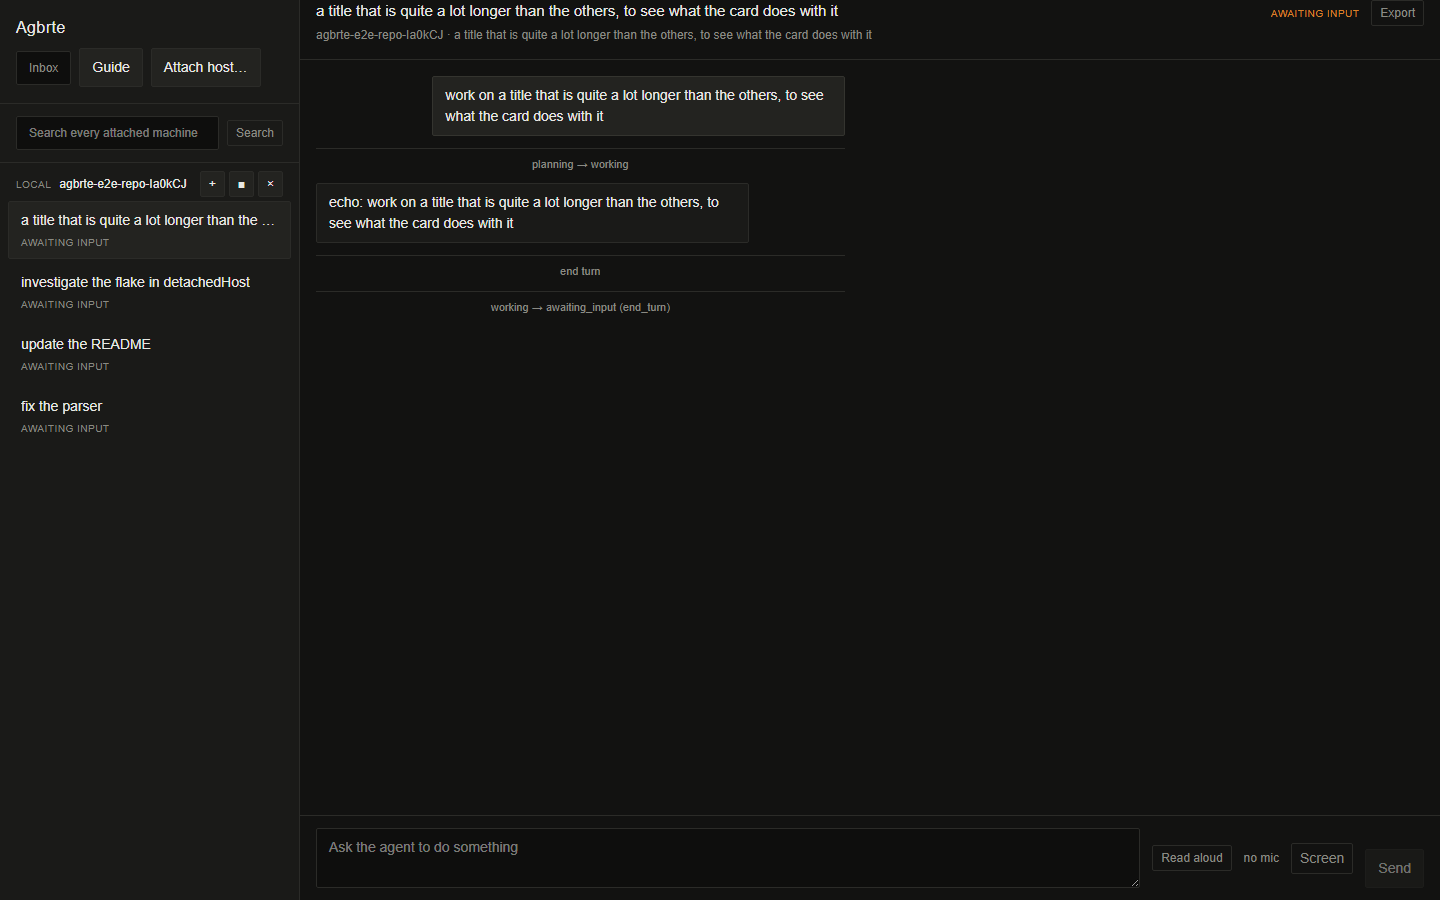
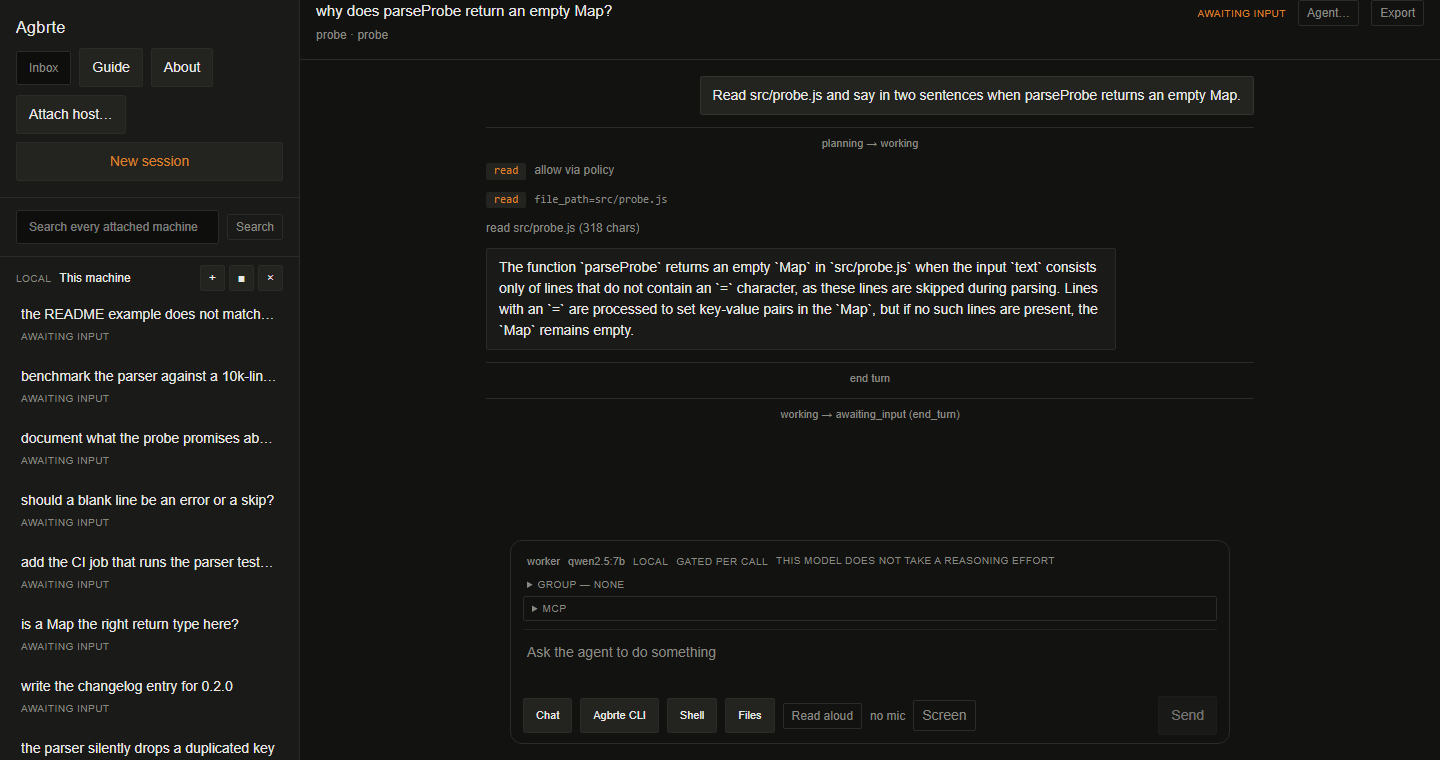
Photograph the product rather than the fixture
The README now leads with these three pictures, and what they showed was a test
run: four `echo` sessions in an empty repository, a workspace called
`agbrte-e2e-repo-5Y5Z4U` printed twice across the top of the session view, three
quarters of every frame black, and a card whose title read *"a title that is
quite a lot longer than the others, to see what the card does with it"*.

None of that was wrong for what the spec was written for. The long title is
there to test what a card does with one, `echo` keeps the suite offline, and an
empty repo is the cheapest fixture there is. It stopped being right when the
output became the first thing anyone sees of the product — a reader who then
downloads the app finds something better than they were shown, which is a small
lie told for no gain.

So the spec now photographs a plausible workspace: a repository with a README and
a file in it, sixteen titles that are work rather than fixtures, and **a real
model when one is running** — `qwen2.5:7b` through Ollama, which is what the
README tells people to install. The session shot is worth the change on its own:
it now shows a permission decision, a `read` of the file the question was about,
and an answer that is correct about the code, instead of `echo:` repeating the
prompt back.

`--yes` is passed because the repository is a throwaway temp directory and a
picture full of denied reads is the one thing these must not be. The fallback to
[…]

diff --git a/tests/e2e/shots.spec.ts b/tests/e2e/shots.spec.ts
@@ -11,67 +11,234 @@
  * to ignore its output.
  *
  *   npx playwright test shots --grep @shots
+ *
+ * ## These end up in the README, which changes what they owe a reader
+ *
+ * The first set was four `echo` sessions in an empty repo, and it showed: three
+ * quarters of the frame was black, every card said the same thing, and one
+ * title was literally *"a title that is quite a lot longer than the others, to
+ * see what the card does with it"*. As a design aid that was fine — the long
+ * title is there to test the card, and `echo` is there to keep the suite
+ * offline. As the first picture of the product anybody sees it was a picture of
+ * placeholder text, and a reader who then downloaded the app would find
+ * something better than they had been shown.
+ *
+ * So: a repository with files in it, titles that are work rather than fixtures,
+ * enough sessions that the grid is a grid, and **a real model when one is
+ * running**. `qwen2.5:7b` through Ollama is what `README.md` tells people to
+ * install, so it is what the pictures are taken with.
+ *
+ * It still falls back to `echo` when no model is there, and the fallback is not
+ * a lesser test — it is the same UI with cheaper turns. What it is not is
+ * something to publish, so the two are told apart in the console rather than
+ * silently producing different pictures under one name.
  */
 
 import { test } from '@playwright/test';
 import { execFileSync } from 'node:child_process';
-import { mkdir } from 'node:fs/promises';
-import { resolve } from 'node:path';
-import { serveWebFixture } from './harness.js';
+import { mkdir, mkdtemp, writeFile } from 'node:fs/promises';
+import { tmpdir } from 'node:os';
+import { join, resolve } from 'node:path';
+import { modelAvailable, serveWebFixture, warmModel } from './harness.js';
 
 const OUT = resolve('.shots');
+const MODEL = 'qwen2.5:7b';
 
-/** Sessions with the variety a dashboard actually has to render. */
-const TITLES = [
-  'fix the parser',
-  'update the README',
-  'investigate the flake in detachedHost',
-  'a title that is quite a lot longer than the others, to see what the card does with it',
+/**
+ * Sessions with the variety a dashboard actually has to render.
+ *
+ * The long title stays, because a card that cannot take one is a bug worth
+ * seeing, but it is now a plausible sentence rather than an instruction to the
+ * reader. The rest are the shape of a real queue: a bug, a doc, an
+ * investigation, a rename, a question.
+ */
+const WORK = [
+  {
+    title: 'why does parseProbe return an empty Map?',
+    prompt: 'Read src/probe.js and say in two sentences when parseProbe returns an empty Map.',
+  },
+  {
+    title: 'add a test for a line with no equals sign',
+    prompt: 'Read src/probe.js. In two sentences, what should a test for a line with no "=" assert?',
+  },
+  {
+    title: 'draft the README section on parsing probe output',
+    prompt: 'Read README.md and draft two sentences for a section about parsing probe output.',
+  },
+  {
+    title: 'rename parseProbe to parseProbeLines and update the callers',
+    prompt: 'Read src/probe.js and list, in two sentences, what a rename of parseProbe would touch.',
+  },
+  {
+    title: 'investigate the flake in detachedHost',
+    prompt: 'Two hosts in one test run shared a socket. Name the likeliest cause in two sentences.',
+  },
+  {
+    title: 'work out whether the host record can be trusted after a reboot',
+    prompt: 'In two sentences: why is a file naming a process weaker evidence than a socket answering?',
+  },
+  {
+    title: 'decide what a value containing an equals sign should do',
+    prompt: 'Read src/probe.js. In two sentences: what happens to a line like a=b=c, and is that right?',
+  },
+  {
+    title: 'trim the trailing carriage return a Windows shell leaves',
+    prompt: 'In two sentences: why does a line read from a Windows shell often end in a stray \\r?',
+  },
+  {
+    title: 'the parser silently drops a duplicated key',
+    prompt: 'Read src/probe.js. In two sentences: what happens when the same key appears twice?',
+  },
+  {
+    title: 'write the changelog entry for 0.2.0',
+    prompt: 'In two sentences, draft a changelog entry for a parser that now skips malformed lines.',
+  },
+  {
+    title: 'is a Map the right return type here?',
+    prompt: 'Read src/probe.js. In two sentences, argue for or against returning a Map.',
+  },
+  {
+    title: 'add the CI job that runs the parser tests on Windows',
+    prompt: 'In two sentences: what does a Windows CI job need that a Linux one does not?',
+  },
+  {
+    title: 'should a blank line be an error or a skip?',
+    prompt: 'Read src/probe.js. In two sentences: is skipping a blank line the right call?',
+  },
+  {
+    title: 'document what the probe promises about ordering',
+    prompt: 'In two sentences: does a Map preserve insertion order, and does that matter here?',
+  },
+  {
+    title: 'benchmark the parser against a 10k-line probe',
+    prompt: 'In two sentences: what would dominate the cost of parsing ten thousand lines?',
+  },
+  {
+    title: 'the README example does not match the code',
+    prompt: 'Read README.md and src/probe.js. In two sentences, say whether they agree.',
+  },
 ];
+
+/** A repository with something in it, so a turn has something to be about. */
+async function fillRepo(repo: string): Promise<void> {
+  await writeFile(
+    join(repo, 'README.md'),
+    '# probe\n\nParses `key=value` lines out of what a remote shell prints back.\n',
+    'utf8',
+  );
+  await mkdir(join(repo, 'src'), { recursive: true });
+  await writeFile(
+    join(repo, 'src', 'probe.js'),
+    [
+      '/** Parse `key=value` lines. A line without `=` is skipped rather than thrown on. */',
+      'export function parseProbe(text) {',
+      '  const out = new Map();',
+      '  for (const line of text.split("\\n")) {',
+      '    const at = line.indexOf("=");',
+      '    if (at > 0) out.set(line.slice(0, at).trim(), line.slice(at + 1).trim());',
+      '  }',
+      '  return out;',
+      '}',
+      '',
+    ].join('\n'),
+    'utf8',
+  );
+}
 
 test.describe('@shots', () => {
   test('captures the app at the sizes people use it', async ({ page }) => {
-    test.setTimeout(180_000);
+    test.setTimeout(900_000);
     await mkdir(OUT, { recursive: true });
-    const web = await serveWebFixture();
+
+    const live = await modelAvailable(MODEL);
+    // Its own machine directory and its own endpoint file, so this neither reads
+    // nor writes the developer's `~/.agbrte` (§8) — the alternative is a run
+    // that quietly depends on how the person running it configured their models.
+    const home = await mkdtemp(join(tmpdir(), 'agbrte-shots-home-'));
+    if (live) {
+      await writeFile(
+        join(home, 'endpoints.json'),
+        JSON.stringify({
+          endpoints: [{ id: 'local', baseUrl: 'http://127.0.0.1:11434/v1' }],
+          default: 'local',
+        }),
+        'utf8',
+      );
+      await warmModel(MODEL);
+    }
+    process.stdout.write(
+      live
+        ? `\n  shots: ${MODEL} through Ollama — these are publishable\n\n`
+        : `\n  shots: no ${MODEL}, falling back to the echo runtime — do NOT publish these\n\n`,
+    );
+
+    // A folder with a name, because the session header prints it and
+    // `agbrte-e2e-repo-5Y5Z4U` in a published screenshot says "test fixture".
+    const web = await serveWebFixture({
+      home,
+      repo: join(await mkdtemp(join(tmpdir(), 'agbrte-shots-')), 'probe'),
+    });
 
     try {
-      for (const title of TITLES) {
+      await fillRepo(web.repo);
+
+      for (const { title, prompt } of WORK) {
         execFileSync(
           process.execPath,
           [
             resolve('dist/cli/agbrte.js'),
             'run',
             web.repo,
-            '--runtime',
-            'echo',
             '--title',
             title,
-            `work on ${title}`,
+            // `--yes` because the repo is a throwaway temp directory and a denied
+            // read is the one thing these pictures must not be full of. It is
+            // also what makes a transcript worth photographing: the model
+            // actually opens the file it was asked about.
+            '--yes',
+            ...(live ? ['--endpoint', 'local', '--model', MODEL] : ['--runtime', 'echo']),
+            prompt,
           ],
-          { stdio: 'ignore' },
+          { stdio: 'ignore', env: { ...process.env, AGBRTE_HOME: home } },
         );
       }
 
-      // Desktop first, which is where the app is mostly used.
-      await page.setViewportSize({ width: 1440, height: 900 });
+      /*
+       * Two desktop heights, one per view, and that is framing rather than a lie
+       * about the layout.
+       *
+       * The dashboard is a grid that grows downwards: on a tall window sixteen
+       * sessions still leave half the frame black. That is genuinely what the app
+       * looks like, and it is also a picture that is mostly nothing once it is
+       * scaled to the width of a README column. A session is the opposite shape —
+       * the composer is pinned to the bottom, so a short window squeezes the
+       * transcript that is the whole point of the picture.
+       *
+       * So each gets a window height somebody actually has, chosen for what is in
+       * it. The width never changes, because that is what decides the layout.
+       */
+      await page.setViewportSize({ width: 1440, height: 560 });
       await page.goto(web.url);
       await page.waitForSelector('[data-testid=dashboard]', { timeout: 30_000 });
-      await page.waitForTimeout(600);
+      await page.waitForTimeout(800);
       await page.screenshot({ path: `${OUT}/01-dashboard.png` });
 
-      // A session opened: the transcript, the roster, the composer.
-      const card = page.locator('[data-testid=session-card]').first();
+      // A session opened: the transcript, the roster, the composer. Named rather
+      // than `.first()`, so the picture does not change meaning when the
+      // dashboard's ordering does.
+      await page.setViewportSize({ width: 1440, height: 760 });
+      await page.waitForTimeout(400);
+      const card = page.getByText(WORK[0]!.title, { exact: false }).first();
       if (await card.isVisible()) {
         await card.click();
-        await page.waitForTimeout(800);
+        await page.waitForTimeout(1200);
         await page.screenshot({ path: `${OUT}/02-session.png` });
       }
 
       // The phone shape, which §12 and the CSS both take seriously.
       await page.setViewportSize({ width: 390, height: 844 });
       await page.goto(web.url);
-      await page.waitForTimeout(1200);
+      await page.waitForTimeout(1500);
       await page.screenshot({ path: `${OUT}/03-phone.png` });
     } finally {
       await web.stop();

diff --git a/tests/e2e/harness.ts b/tests/e2e/harness.ts
@@ -8,7 +8,7 @@
 
 import { _electron as electron, type ElectronApplication, type Page } from '@playwright/test';
 import { readFileSync } from 'node:fs';
-import { mkdtemp, rm } from 'node:fs/promises';
+import { mkdir, mkdtemp, rm } from 'node:fs/promises';
 import { createServer as netCreateServer } from 'node:net';
 import { tmpdir } from 'node:os';
 import { execFileSync, spawn } from 'node:child_process';
@@ -114,8 +114,14 @@ export async function launch(...workspaces: string[]): Promise<LaunchedApp> {
 }
 
 /** A temp directory that is a real git repository. */
-export async function makeRepo(): Promise<string> {
-  const dir = await mkdtemp(join(tmpdir(), 'agbrte-e2e-repo-'));
+export async function makeRepo(at?: string): Promise<string> {
+  // `at` names the directory instead of letting `mkdtemp` do it, because the
+  // folder's **basename is on screen** — the session header shows it, and the
+  // sidebar lists it. That does not matter to an assertion and matters entirely
+  // to a screenshot, where `agbrte-e2e-repo-5Y5Z4U` tells a reader they are
+  // looking at somebody's test fixture rather than at the product.
+  const dir = at ?? (await mkdtemp(join(tmpdir(), 'agbrte-e2e-repo-')));
+  await mkdir(dir, { recursive: true });
   // A real repo, because "edits a real repo" is the acceptance criterion and a
   // bare temp folder would not prove the workspace machinery works on one.
   execFileSync('git', ['init', '-q'], { cwd: dir });
@@ -177,12 +183,12 @@ export async function warmModel(model: string): Promise<void> {
  * Playwright will not let a describe block change the browser engine, so
  * WebKit-at-phone-size has to live on its own.
  */
-export async function serveWebFixture(): Promise<{
+export async function serveWebFixture(opts: { home?: string; repo?: string } = {}): Promise<{
   url: string;
   repo: string;
   stop: () => Promise<void>;
 }> {
-  const repo = await makeRepo();
+  const repo = await makeRepo(opts.repo);
   const port = await new Promise<number>((done, fail) => {
     const probe = netCreateServer();
     probe.once('error', fail);
@@ -193,10 +199,30 @@ export async function serveWebFixture(): Promise<{
     });
   });
   const url = `http://127.0.0.1:${port}/`;
+  /*
+   * `home` gives this server its own machine directory, the way `launch` does
+   * (§8). Without it the CLI uses the real `~/.agbrte`, so the host it starts is
+   * the developer's own — reopening every workspace they have ever attached, and
+   * reading their endpoints. Left optional rather than made unconditional
+   * because the specs that only need a page served are already passing against
+   * the shared one, and a caller that wants isolation now asks for it by name.
+   */
   const server = spawn(
     process.execPath,
     [resolve('dist/cli/agbrte.js'), 'web', repo, '--port', String(port)],
-    { stdio: 'ignore' },
+    {
+      stdio: 'ignore',
+      env: {
+        ...process.env,
+        ...(opts.home === undefined ? {} : { AGBRTE_HOME: opts.home }),
+        // The same three seconds `launch` uses, for the same reason and from the
+        // same observation: the host is detached, so killing the web server it
+        // came up for leaves it running on the production default of minutes.
+        // Four runs of the shots spec left four hosts holding four temp
+        // workspaces, which is how this was noticed rather than reasoned out.
+        AGBRTE_HOST_LINGER_MS: '3000',
+      },
+    },
   );
 
   const deadline = Date.now() + 30_000;

diff --git a/docs/index.html b/docs/index.html
@@ -444,7 +444,7 @@
 
     <div class="shots">
       <figure style="margin:0">
-        <img src="./shots/01-dashboard.png" alt="The dashboard: four session cards under a Needs you heading, with a sidebar listing the attached host">
+        <img src="./shots/01-dashboard.png" alt="The dashboard: sixteen session cards under a Needs you heading, with a sidebar listing the attached machine">
         <figcaption>Every session on every attached machine, ranked by who needs a human. Cost and tokens per card; no progress bars, because nothing writes a checklist yet and a bar reading 0/0 forever is worse than no bar.</figcaption>
       </figure>
 

diff --git a/README.md b/README.md
@@ -46,9 +46,9 @@ two builds on one computer, and what the test commands cover.
 
 | ![The dashboard](docs/shots/01-dashboard.png) | ![An open session](docs/shots/02-session.png) | ![The same app on a phone](docs/shots/03-phone.png) |
 | :-- | :-- | :-- |
-| Every session on every attached machine, ranked by **who needs a human**. | One session, transcript set to a readable measure rather than the window's width. | The same app in a phone browser on your own network, driving a run on a build box. |
+| Every session on every attached machine, ranked by **who needs a human**. | One session: a tool call, the permission it went through, and the answer. | The same app in a phone browser on your own network, driving a run on a build box. |
 
-*(From the e2e suite, so the content is fixture text and the runtime is `echo`.)*
+*(Real turns against a local `qwen2.5:7b`, captured by `npx playwright test shots --grep @shots`.)*
 
 ## The one idea
 
